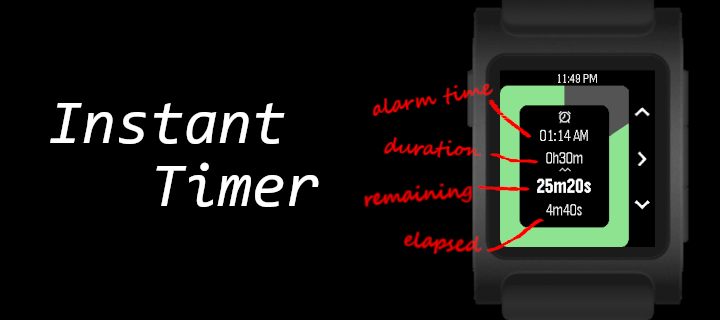
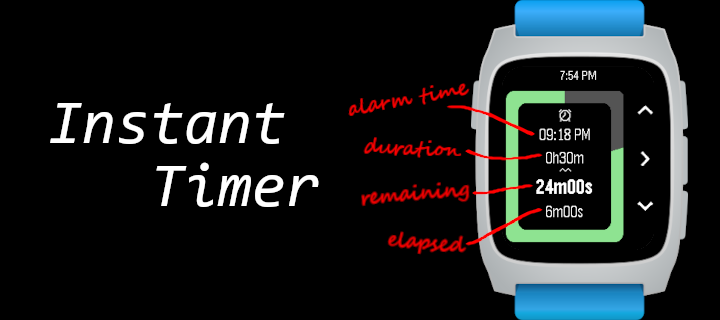
Inset the progress ring on emery to avoid the edges covered by bezel on Time2

Changed region(s): [[0.4889, 0.0, 0.9778, 1.0]]

diff --git a/src/c/InstantTimer.c b/src/c/InstantTimer.c
@@ -1,6 +1,5 @@
 /*
     TODO
-        - Small bell or alert icon in alarm icon slot for B&W platforms
         - increase big font size on gabbro when FONT_KEY_GOTHIC_36_BOLD is available
         - configuration via clay
             - all colours
@@ -21,6 +20,7 @@
             - just edit these icons in raster
 */
 
+#include <math.h>
 #include <pebble.h>
 #include <stdio.h>
 #include <time.h>
@@ -134,7 +134,6 @@ typedef enum SecDisplay {
 
 /// Format `seconds` into a `buffer` of `size` as days, hours, minutes, seconds
 /// `truncate_h` to exclude hours if 0 (days is always truncated if 0)
-/// `show_s` to show seconds unit
 static void snprintf_hms(char* buffer, size_t size, time_t seconds, bool truncate_h, SecDisplay sec_disp) {
     const char* neg = seconds < 0 ? "-" : "";
     const int abs_seconds = ABS(seconds);
@@ -231,6 +230,14 @@ float fast_sqrt(const float x)
     u.x = x;
     u.i = 0x5f3759df - (u.i >> 1);  // initial guess
     return x * u.x * (1.5f - xhalf * u.x * u.x);  // Newton step
+}
+
+/// Return the diagonal length of `rect`
+int32_t grect_diagonal(GRect rect) {
+    return ceil(fast_sqrt(
+        (rect.size.h * rect.size.h)
+        + (rect.size.w * rect.size.w)
+    ));
 }
 
 
@@ -1055,64 +1062,84 @@ static void draw_pause_background(GPoint centre, int16_t central_panel_radius, G
 }
 #endif // PBL_COLOR
 
-static void render_background(Layer *layer, GContext *ctx) {
-    const GRect bounds = layer_get_bounds(layer);
 
-#if PBL_PLATFORM_CHALK  // ring is slightly wider to accommodate actionbar icons
+// Render background elements, including the progress ring
+static void render_background(Layer *layer, GContext *ctx) {
+    GRect bounds = layer_get_bounds(layer);
+
+    // empty background
+    graphics_context_set_fill_color(ctx, BG_COLOR);
+    graphics_fill_rect(ctx, bounds, 0, GCornerNone);
+
+#if PBL_PLATFORM_EMERY  // Time2's bezel covers screen edges, so add a margin
+    const int32_t margin = 10;
+    const GRect ring_bounds = grect_inset(bounds, (GEdgeInsets){margin, margin, margin, margin});
+#else // !PBL_PLATFORM_EMERY
+    const GRect ring_bounds = bounds;
+#endif // !PBL_PLATFORM_EMERY
+
+#if PBL_PLATFORM_CHALK  // make the ring slightly wider to accommodate actionbar icons
     const int16_t central_panel_radius = (bounds.size.h * 0.34);
 #else // !PBL_PLATFORM_CHALK
     const int16_t central_panel_radius = (bounds.size.h * (bounds.size.h > 160 ? 0.38: 0.45));
 #endif // PBL_PLATFORM_CHALK
 
-    const uint16_t ring_thickness = (uint16_t) ((bounds.size.h / 2) - central_panel_radius);
+    const uint16_t ring_thickness = (uint16_t) ((ring_bounds.size.h / 2) - central_panel_radius);
     const bool is_overtime = s_state.alarm_duration && (s_state.elapsed_time >= s_state.alarm_duration);
-
-    // background
-    graphics_context_set_fill_color(ctx, BG_COLOR);
-    graphics_fill_rect(ctx, bounds, 0, GCornerNone);
 
     // ring background
     graphics_context_set_fill_color(ctx, is_overtime ? EMPTY_RING_COLOR : REMAINING_COLOR);
 #if PBL_ROUND
-    graphics_fill_radial(ctx, bounds, GOvalScaleModeFillCircle, ring_thickness, DEG_TO_TRIGANGLE(0), DEG_TO_TRIGANGLE(360));
-    const GRect ring_bounds = bounds;
+    graphics_fill_radial(ctx, ring_bounds, GOvalScaleModeFillCircle, ring_thickness,
+                         DEG_TO_TRIGANGLE(0), DEG_TO_TRIGANGLE(360));
+    const GRect ring_foreground_bounds = ring_bounds;
 #else // PBL_RECT
     const uint16_t corner_radius = 10;
-    graphics_fill_rect(ctx, bounds, corner_radius, GCornersAll);
-    const GSize size = {
-        bounds.size.w,
-        (int16_t)fast_sqrt((bounds.size.h * bounds.size.h) + (bounds.size.w * bounds.size.w)) - (corner_radius - 3)
-    };
-    const GPoint ring_centre = grect_center_point(&bounds);
-    const GRect ring_bounds = {
-        .origin = {ring_centre.x - (size.w / 2), ring_centre.y - (size.h / 2)},
-        .size = size
+    graphics_fill_rect(ctx, ring_bounds, corner_radius, GCornersAll);
+
+    // rect-only calculations for the ring foreground.
+    // we're going to cover the rect background with a foreground radial
+    const int16_t diameter = grect_diagonal(ring_bounds) - corner_radius + 3;  // manually tweaked
+    const GPoint ring_centre = grect_center_point(&ring_bounds);
+    const GRect ring_foreground_bounds = {
+        .origin = {ring_centre.x - (diameter / 2), ring_centre.y - (diameter / 2)},
+        .size = {diameter, diameter}
     };
 #endif // PBL_RECT
 
     // ring foreground
     if (s_state.alarm_duration) {
         graphics_context_set_fill_color(ctx, is_overtime ? OVERTIME_COLOR : EMPTY_RING_COLOR);
-        graphics_fill_radial(ctx, ring_bounds, GOvalScaleModeFillCircle,
-            PBL_IF_ROUND_ELSE(ring_thickness, bounds.size.h),
+        graphics_fill_radial(ctx, ring_foreground_bounds, GOvalScaleModeFillCircle,
+            PBL_IF_ROUND_ELSE(ring_thickness, ring_foreground_bounds.size.w),
             DEG_TO_TRIGANGLE(0),
             (TRIG_MAX_ANGLE * s_state.elapsed_time / s_state.alarm_duration) % (TRIG_MAX_ANGLE + 1)
         );
     }
 
 #if PBL_RECT
-    // central panel
+    // central panel is an extra graphics_fill_rect, rather than the missing centre of graphics_fill_radial
     graphics_context_set_fill_color(ctx, BG_COLOR);
-    const GRect central_panel_rect = {
-        .origin = {ring_thickness, ring_thickness},
-        .size = {bounds.size.w - (ring_thickness * 2), central_panel_radius * 2}
-    };
+    const GRect central_panel_rect = grect_inset(ring_bounds,
+        (GEdgeInsets){ring_thickness, ring_thickness, ring_thickness, ring_thickness});
     graphics_fill_rect(ctx, central_panel_rect, corner_radius, GCornersAll);
+
+#if PBL_PLATFORM_EMERY
+    // clip off the outer edges of the ring foreground to restore the margin
+    graphics_fill_rect(ctx, (GRect){  // top
+        {bounds.origin.x, bounds.origin.y}, {bounds.size.w, margin}}, 0, GCornerNone);
+    graphics_fill_rect(ctx, (GRect){  // left
+        {bounds.origin.x, bounds.origin.y}, {margin, bounds.size.h}}, 0, GCornerNone);
+    graphics_fill_rect(ctx, (GRect){  // bottom
+        {bounds.origin.x, bounds.origin.y + margin + ring_bounds.size.h}, {bounds.size.w, margin}}, 0, GCornerNone);
+    graphics_fill_rect(ctx, (GRect){  // right
+        {bounds.origin.x + margin + ring_bounds.size.w, bounds.origin.y}, {margin, bounds.size.h}}, 0, GCornerNone);
+#endif // PBL_PLATFORM_EMERY
 #endif // PBL_RECT
 
 #if PBL_COLOR
+    // large icons appearing in the background of the central panel
     const GPoint centre = grect_center_point(&bounds);
-    // pause symbol
     if (!s_state.is_counting) {
         draw_pause_background(centre, central_panel_radius, ctx);
     }
@@ -1122,6 +1149,7 @@ static void render_background(Layer *layer, GContext *ctx) {
 #endif // PBL_COLOR
 }
 
+// Create the resources for the small icon at the top
 static void create_status_icon(Layer* parent, int16_t alarm_text_y) {
     const GRect bounds = layer_get_bounds(parent);
 
